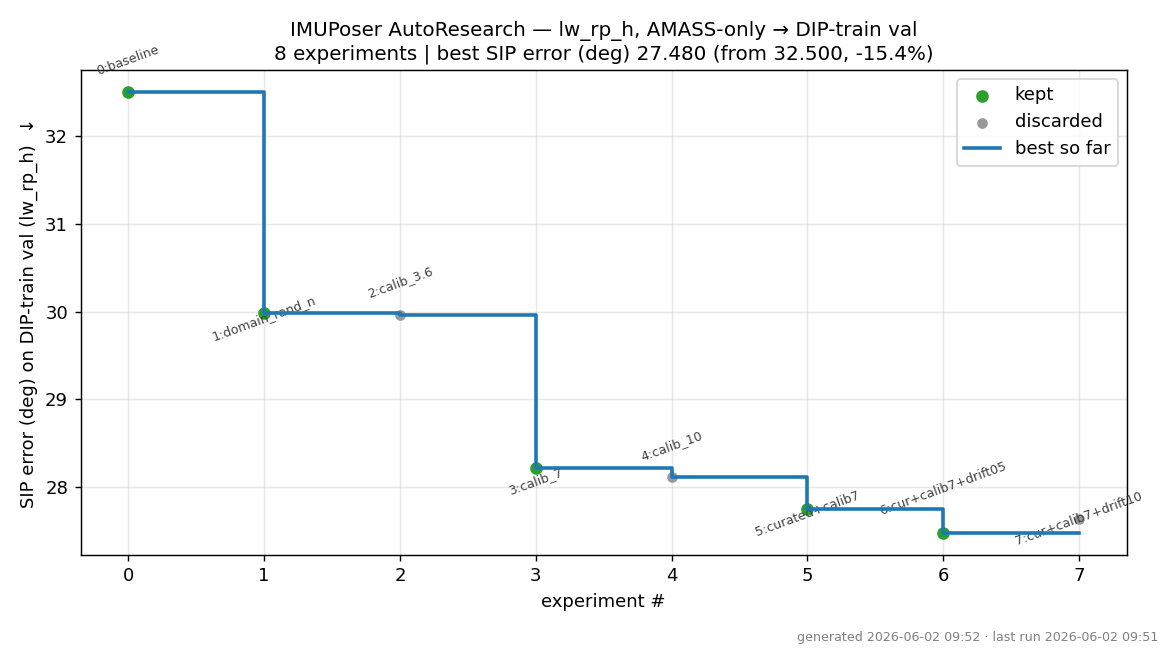
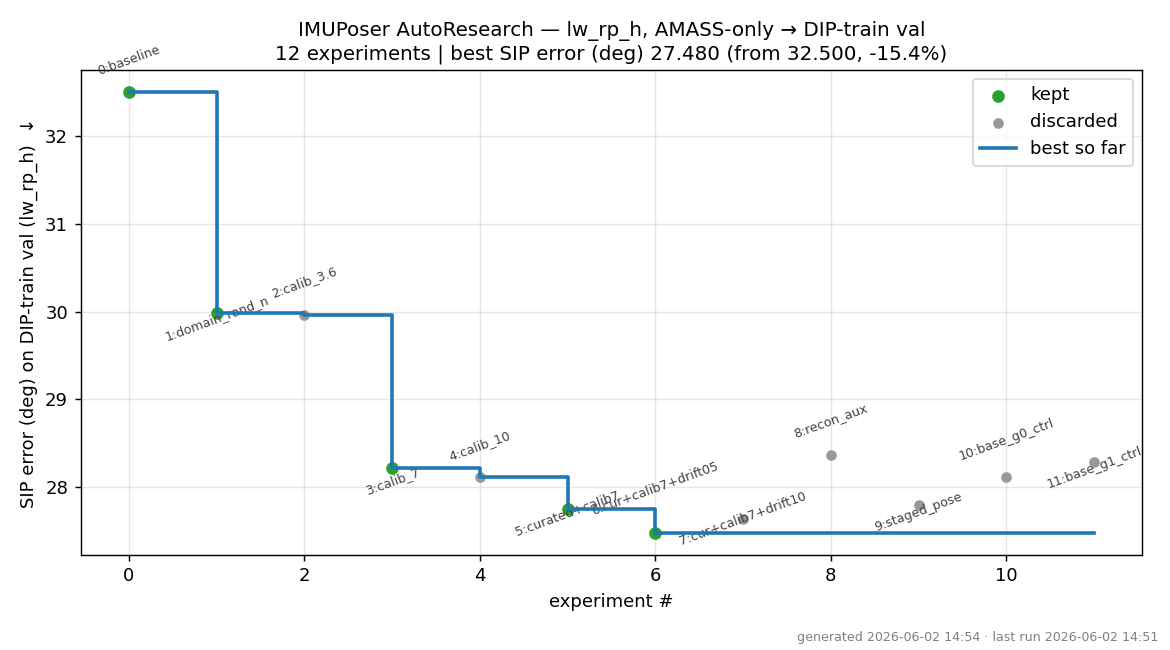
ar exp8-11: architecture experiments (GPU-matched) — recon no gain, staged −0.49 SIP
Both new architectures run against a fresh GlobalModel baseline on the SAME GPU + seed (the
~0.5° GPU-dependent noise floor makes raw comparison to historical numbers unsafe; our fresh
baselines are 28.1/28.3, not exp6's 27.48). Architecture is the only varied factor.

- ReconIMUPoser (exp8, GPU0): +0.26 SIP vs baseline exp10 -> no benefit (worse on all metrics).
  Reconstructing the 2 absent sensors from 3 present ones injects error into the pose head.
- StagedIMUPoser (exp9, GPU1): -0.49 SIP, -0.79 Angle, -0.55 Vert, -0.26 Joint vs baseline exp11.
  4/5 metrics better (LocalAngle flat). SIP at the noise floor but multi-metric-consistent.

Added SEED env to the train script for the seed-replication confirmation round (exp12-15).

diff --git a/scripts/2. Train/1. Train Global Model.py b/scripts/2. Train/1. Train Global Model.py
@@ -21,8 +21,8 @@ from imuposer.models.utils import get_model
 from imuposer.datasets.utils import get_datamodule, get_split_files
 from imuposer.utils import get_parser
 
-# set the random seed
-seed_everything(42, workers=True)
+# set the random seed (override with SEED env for seed-replication / variance estimates)
+seed_everything(int(os.environ.get("SEED", "42")), workers=True)
 
 parser = get_parser()
 args = parser.parse_args()

diff --git a/ADDITIONAL_EXPERIMENTS.md b/ADDITIONAL_EXPERIMENTS.md
@@ -193,4 +193,23 @@ Key findings:
   noise + GPU-confounded — NOT established. Input-augmentation realism plateaus ~27.5°.
 - Key protocol fix: select on SIP-on-val (MSE val loss is anti-correlated with SIP over training); use
   fixed-epoch final model. SIP-on-val tracks DIP-test only coarsely (~+2-3° offset).
-- Next lever (must beat ~0.5°): architecture — missing-IMU reconstruction / staged prediction.
+
+### Architecture experiments (GPU-matched controls, best recipe = calib7 + drift0.05 + curated12, 30 ep)
+
+Each architecture was run against a **fresh GlobalModel baseline on the same GPU + same seed**, so the
+only difference is the architecture (the GPU confound above makes raw comparison to historical numbers
+unsafe — our fresh baselines land at 28.1–28.3, not exp6's recorded 27.48).
+
+| arch | SIP | Angle | Joint cm | Vert cm | matched baseline SIP | ΔSIP |
+|---|---|---|---|---|---|---|
+| **ReconIMUPoser** (exp8, GPU0): reconstruct full 5-IMU → pose | 28.37 | 24.14 | 10.72 | 13.13 | 28.11 (exp10) | **+0.26 (worse)** |
+| **StagedIMUPoser** (exp9, GPU1): IMU → joint pos → pose | 27.80 | 23.04 | 10.36 | 12.37 | 28.29 (exp11) | **−0.49** |
+
+- **Missing-IMU reconstruction does NOT help** (+0.26° SIP, worse on every metric). Reconstructing the 2
+  absent sensors from the 3 present ones injects error that propagates into the pose head; the auxiliary
+  target adds no signal the pose head wasn't already extracting.
+- **Staged prediction (IMU→joints→pose) gives a small, consistent gain**: −0.49° SIP and ALSO better on
+  Angle (−0.79°), Vertex (−0.55 cm), Joint (−0.26 cm) — 4/5 metrics better, LocalAngle flat. SIP alone is
+  at the noise floor, but multi-metric consistency argues it's a real (if small) effect. Intermediate
+  joint-position supervision gives the LSTM an easier geometric subproblem before the rotation regression.
+- **Seed-replication (exp12–15)** of staged-vs-baseline on two fresh seeds confirms/refutes the −0.5°.
